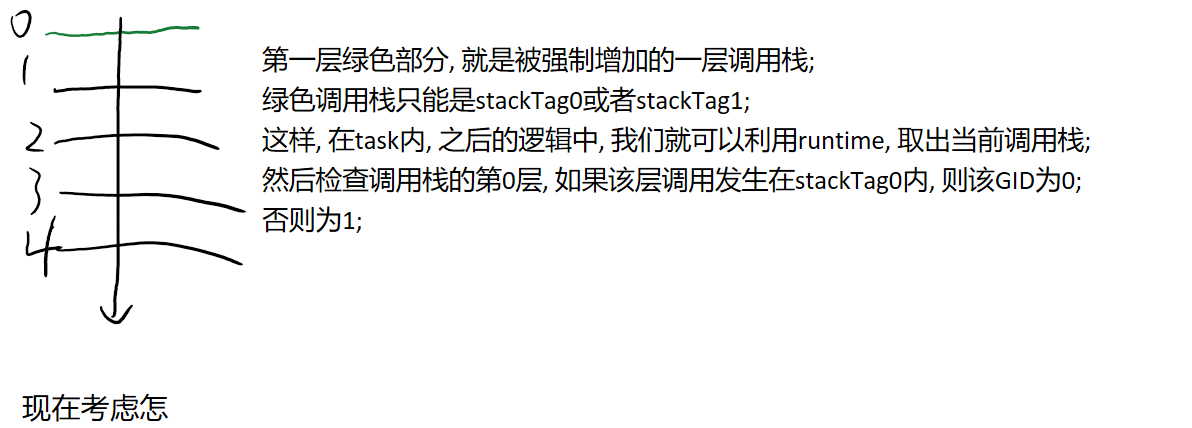
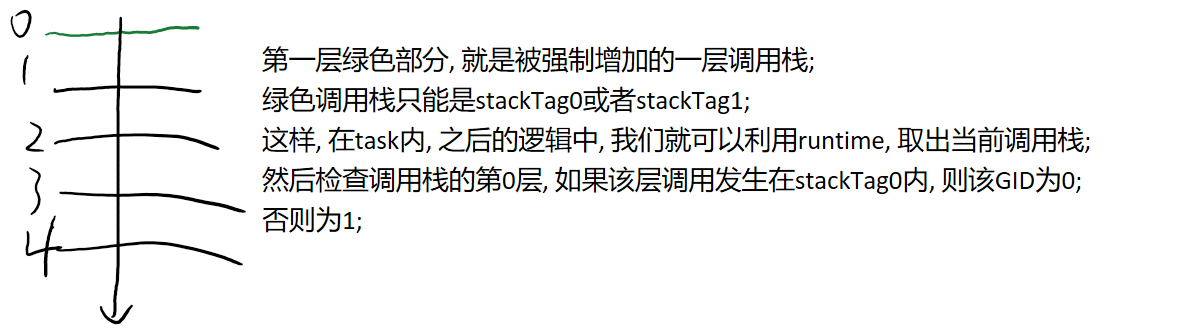
Creates golang/gls_assets/import2.png
Auto commit by GitBook Editor

diff --git a/golang/gls.md b/golang/gls.md
@@ -121,7 +121,7 @@ GLS实现难点在于, 你无法通过runtime等官方库, 拿到当前goroutine
 
 其调用栈大致如下:
 
-![](/golang/gls_assert/import.png)
+![](/golang/gls_assets/import0.png)
 
 现在， 我们实现一个函数， CodeGIDToStack\(task\);
 
@@ -139,25 +139,115 @@ func stackTag0(t task) { t() }
 func stackTag1(t task) { t() }
 
 func CodeGIDToStack(t task) {
-    gid := GIDCounter
-    GIDCounter++
-    go func() {
-        if gid == 0 {
-            stackTag0(t)
-        } else if gid == 1 {
-            stackTag1(t)
-        } else {
-            panic("gid is too large")
-        }
-    }()
+    gid := GIDCounter
+    GIDCounter++
+    go func() {
+        if gid == 0 {
+            stackTag0(t)
+        } else if gid == 1 {
+            stackTag1(t)
+        } else {
+            panic("gid is too large")
+        }
+    }()
 }
 ```
 
 我们暂且只考虑对0和1进行编码的情况;
 
-当我们调用CodeGIDToStack时, task的栈就变成了下面这样:
+当我们调用CodeGIDToStack时, task的栈就变成了下面这样:![](/golang/gls_assets/import1.png)现在考虑怎么将大于1的GID编码进栈中;
 
-![](/golang/gls_assets/import1.png)
+思路还是比较简单的, 假设我们想编码6;
+
+其二进制表示为110, 则我们设法构成下面的调用栈:![](/golang/gls_assets/import2.png)代码大致如下:
+
+```
+var GIDCounter uint
+
+type task func()
+
+func stackTag0(remains uint, t task) {
+	if remains == 0 {
+		t()
+	} else {
+		if remains&1 == 0 {
+			stackTag0(remains>>1, t)
+		} else {
+			stackTag1(remains>>1, t)
+		}
+	}
+}
+
+func stackTag1(remains uint, t task) {
+	if remains == 0 {
+		t()
+	} else {
+		if remains&1 == 0 {
+			stackTag0(remains>>1, t)
+		} else {
+			stackTag1(remains>>1, t)
+		}
+	}
+}
+
+func CodeGIDToStack(t task) {
+	gid := GIDCounter
+	GIDCounter++
+	go func() {
+		if gid&1 == 0 {
+			stackTag0(gid>>1, t)
+		} else {
+			stackTag1(gid>>1, t)
+		}
+	}()
+}
+```
+
+### 具体实现
+
+上小结描述了编码GID到调用栈的思路;
+
+至于怎么利用调用栈还原, 利用runtime的哪些接口, 和其他一些优化;
+
+请直接参考开头提供的两份代码库.
+
+
+
+
+
+
+
+
+
+
+
+
+
+
+
+
+
+
+
+
+
+
+
+
+
+
+
+
+
+
+
+
+
+
+
+
+
+
 
 
 
